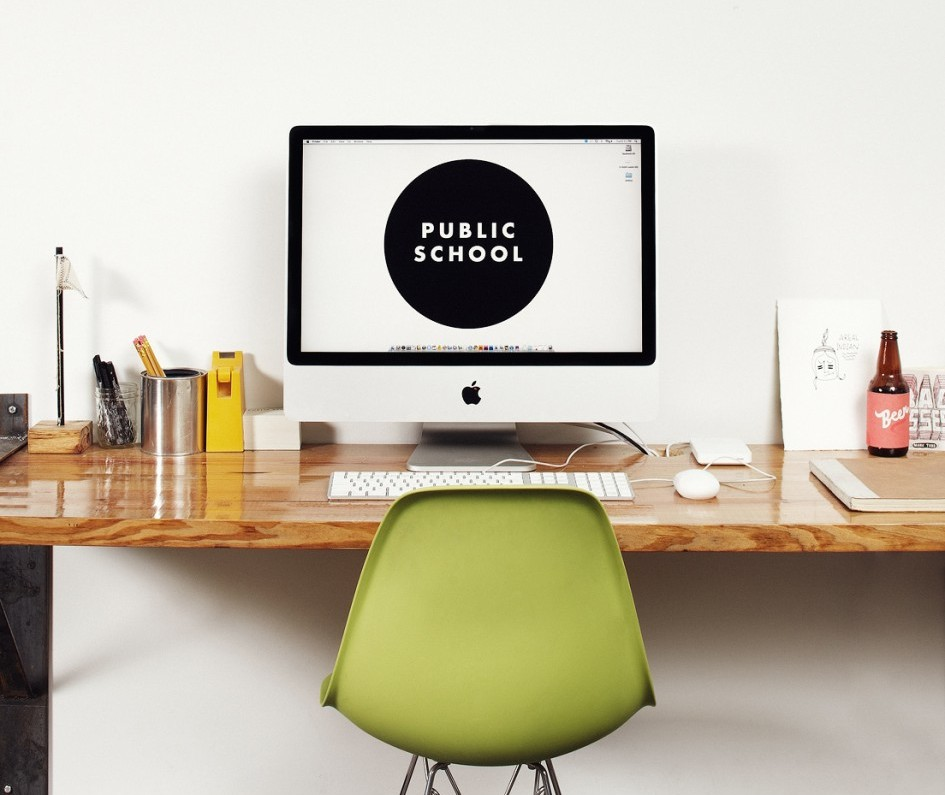
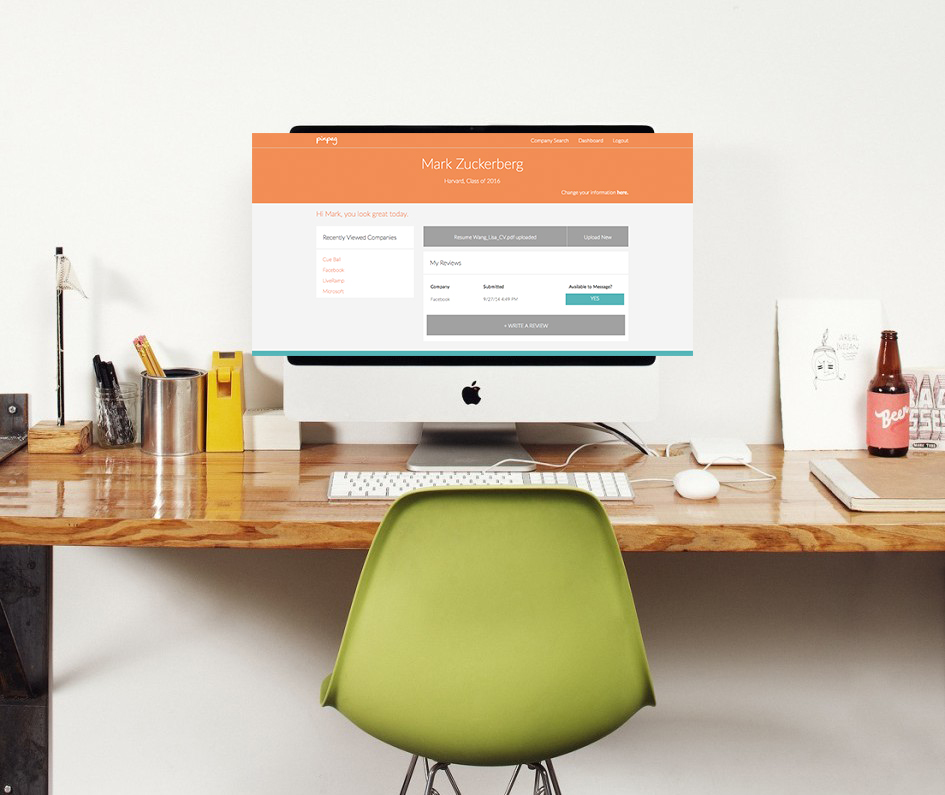
replace home image

Changed region(s): [[0.2455, 0.1509, 0.7365, 0.4528]]

diff --git a/app/assets/stylesheets/home.sass b/app/assets/stylesheets/home.sass
@@ -130,8 +130,9 @@ h3
 
 .screenshots
   padding-top: 25px
-  background-image: image-url("computer6.jpg")
+  background-image: image-url("dashboard.jpg")
   background-size: cover
+  background-repeat: no-repeat
   height: 80%
 
 .aboutHead
